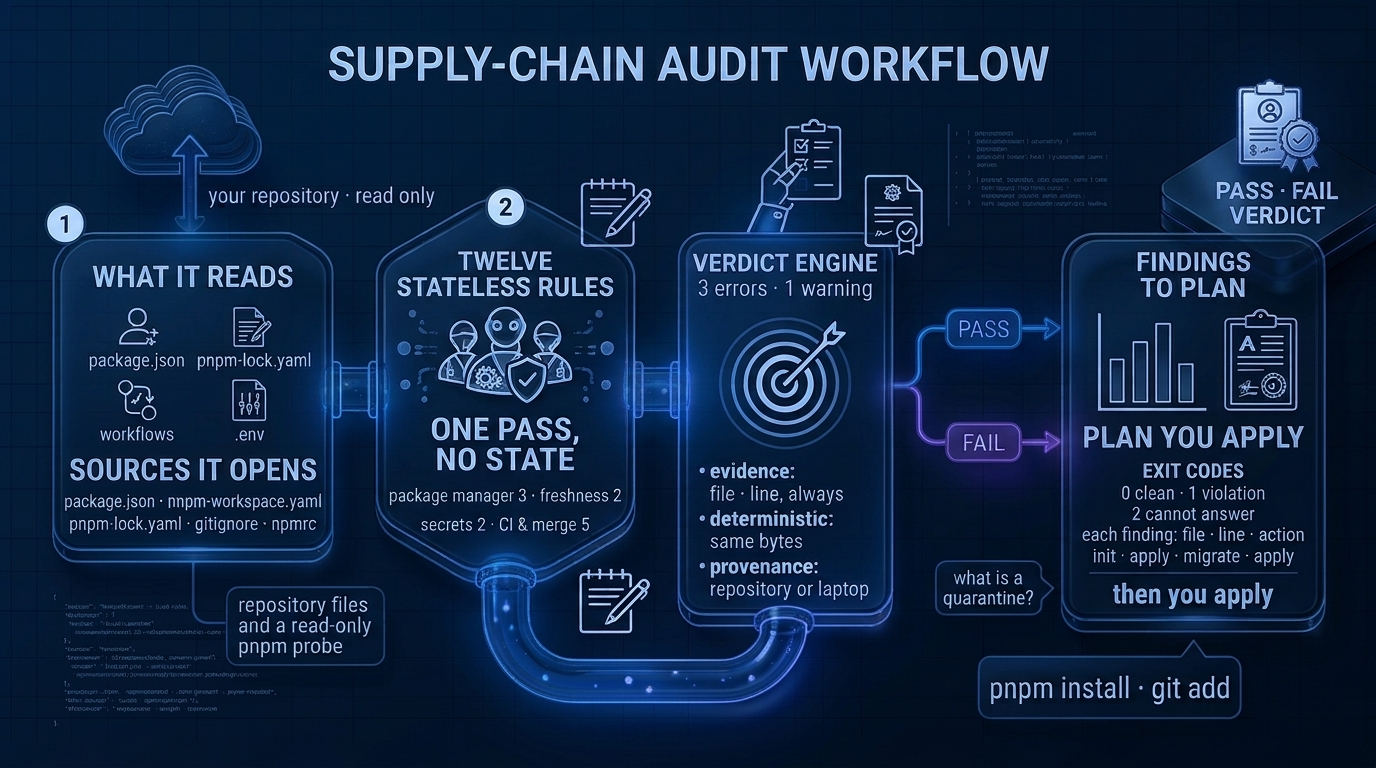
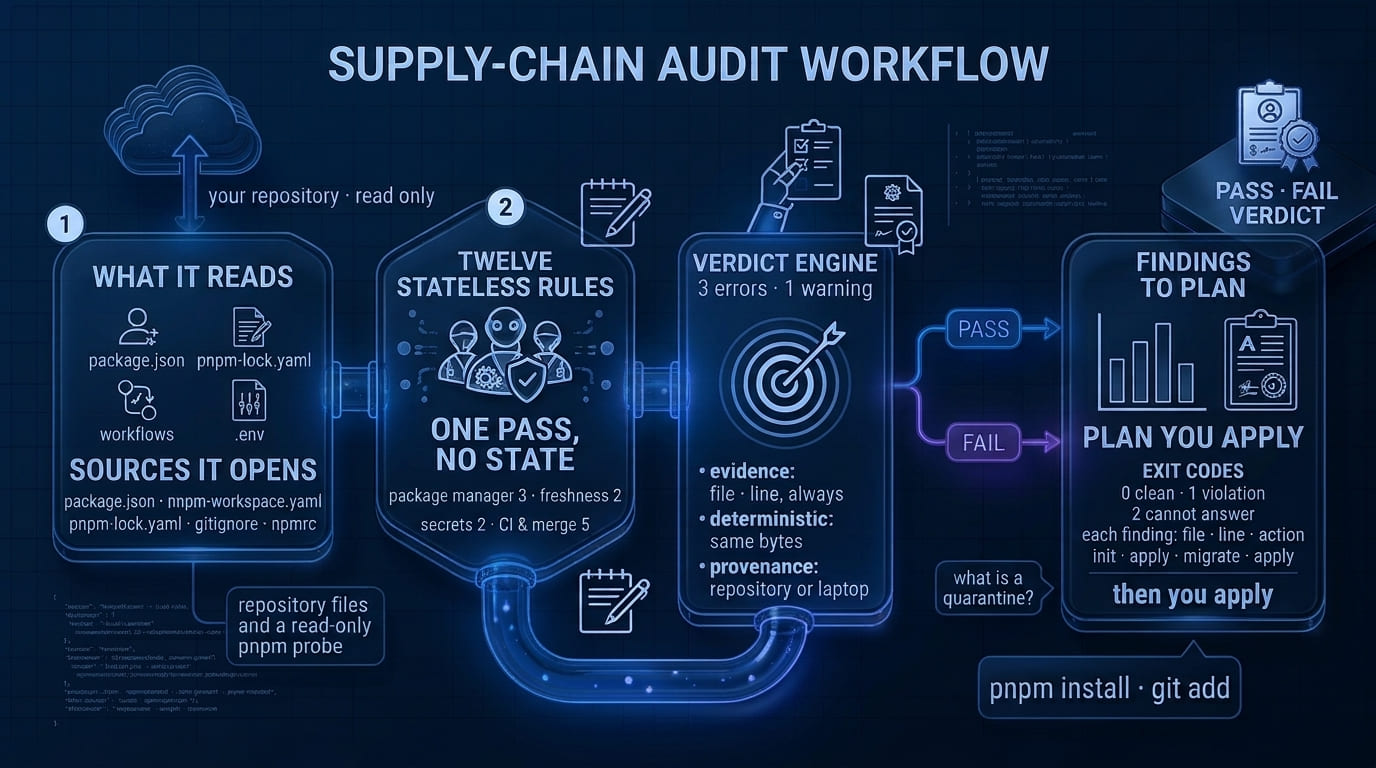
docs: record the rule overlap the tour surfaced
Spec: odd/tasks/human-output-v2.md, L8

diff --git a/odd/tasks/human-output-v2.md b/odd/tasks/human-output-v2.md
@@ -57,3 +57,10 @@ command that verifies it" contradicted the collapse in the same section. It now 
 obligation moves when skips collapse: behind `--verbose`, named by the collapsed line.
 
 L7 (open): the version bump to 0.5.0 and the two diagram strings are deliberately not in this branch.
+
+L8 (dogfooding, parent): building the tour (`M:/pruebas/cli-tour`) surfaced a rule defect that is
+not this feature s: `no-bot-auto-merge` (R9) also reports `pr-target-head-checkout` with R14 s
+own message (`src/rules/no-bot-auto-merge.js:200`), so one hazard in one workflow step produces two
+findings under two different labels, and the summary counts it twice. With labels now visible the
+duplication is obvious in a way the ids hid. It needs a rule-semantics decision and its own record;
+nothing in this branch changes it.
